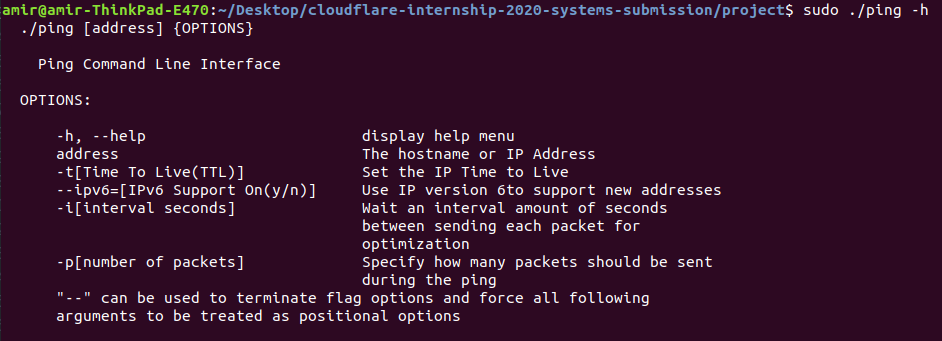
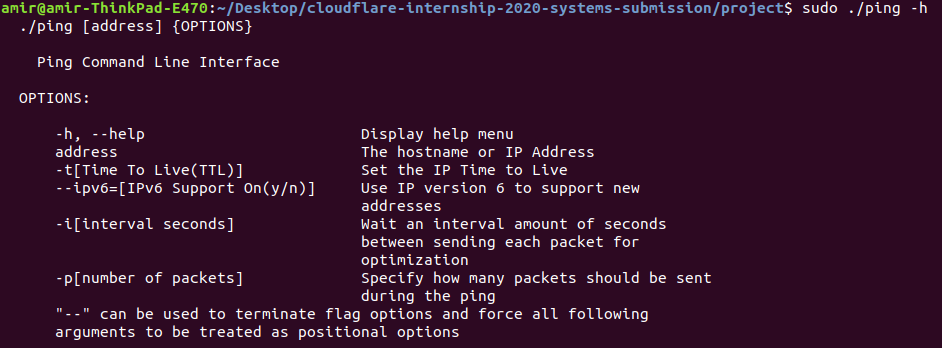
new help screnshot

diff --git a/project/ping.cpp b/project/ping.cpp
@@ -17,7 +17,6 @@ OPTIONS:
                                         during the ping
       "--" can be used to terminate flag options and force all following
       arguments to be treated as positional options
-
  */
 
 #include <arpa/inet.h>
@@ -287,11 +286,11 @@ int main (int argc, char *argv[]) {
     // using the Args library to implement a C++ CLI: https://github.com/taywee/args
     // instantiating objects and characteristics for a parser to  create a CLI
     args::ArgumentParser parser ("Ping Command Line Interface");
-    args::HelpFlag help (parser, "help", "display help menu", {'h', "help"});
+    args::HelpFlag help (parser, "help", "Display help menu", {'h', "help"});
     args::CompletionFlag completion (parser, {"complete"});
     args::Positional<std::string> address (parser, "address", "The hostname or IP Address");
     args::ValueFlag<int> timeToLive (parser, "Time To Live(TTL)", "Set the IP Time to Live", {'t'});
-    args::ValueFlag<char> ipv6 (parser, "IPv6 Support On(y/n)", "Use IP version 6to support new addresses", {"ipv6"});
+    args::ValueFlag<char> ipv6 (parser, "IPv6 Support On(y/n)", "Use IP version 6 to support new addresses", {"ipv6"});
     args::ValueFlag<double> newInterval (parser, "interval seconds", "Wait an interval amount of seconds between sending each packet for optimization", {'i'});
     args::ValueFlag<int> packetsToSend (parser, "number of packets", "Specify how many packets should be sent during the ping", {'p'});
 
